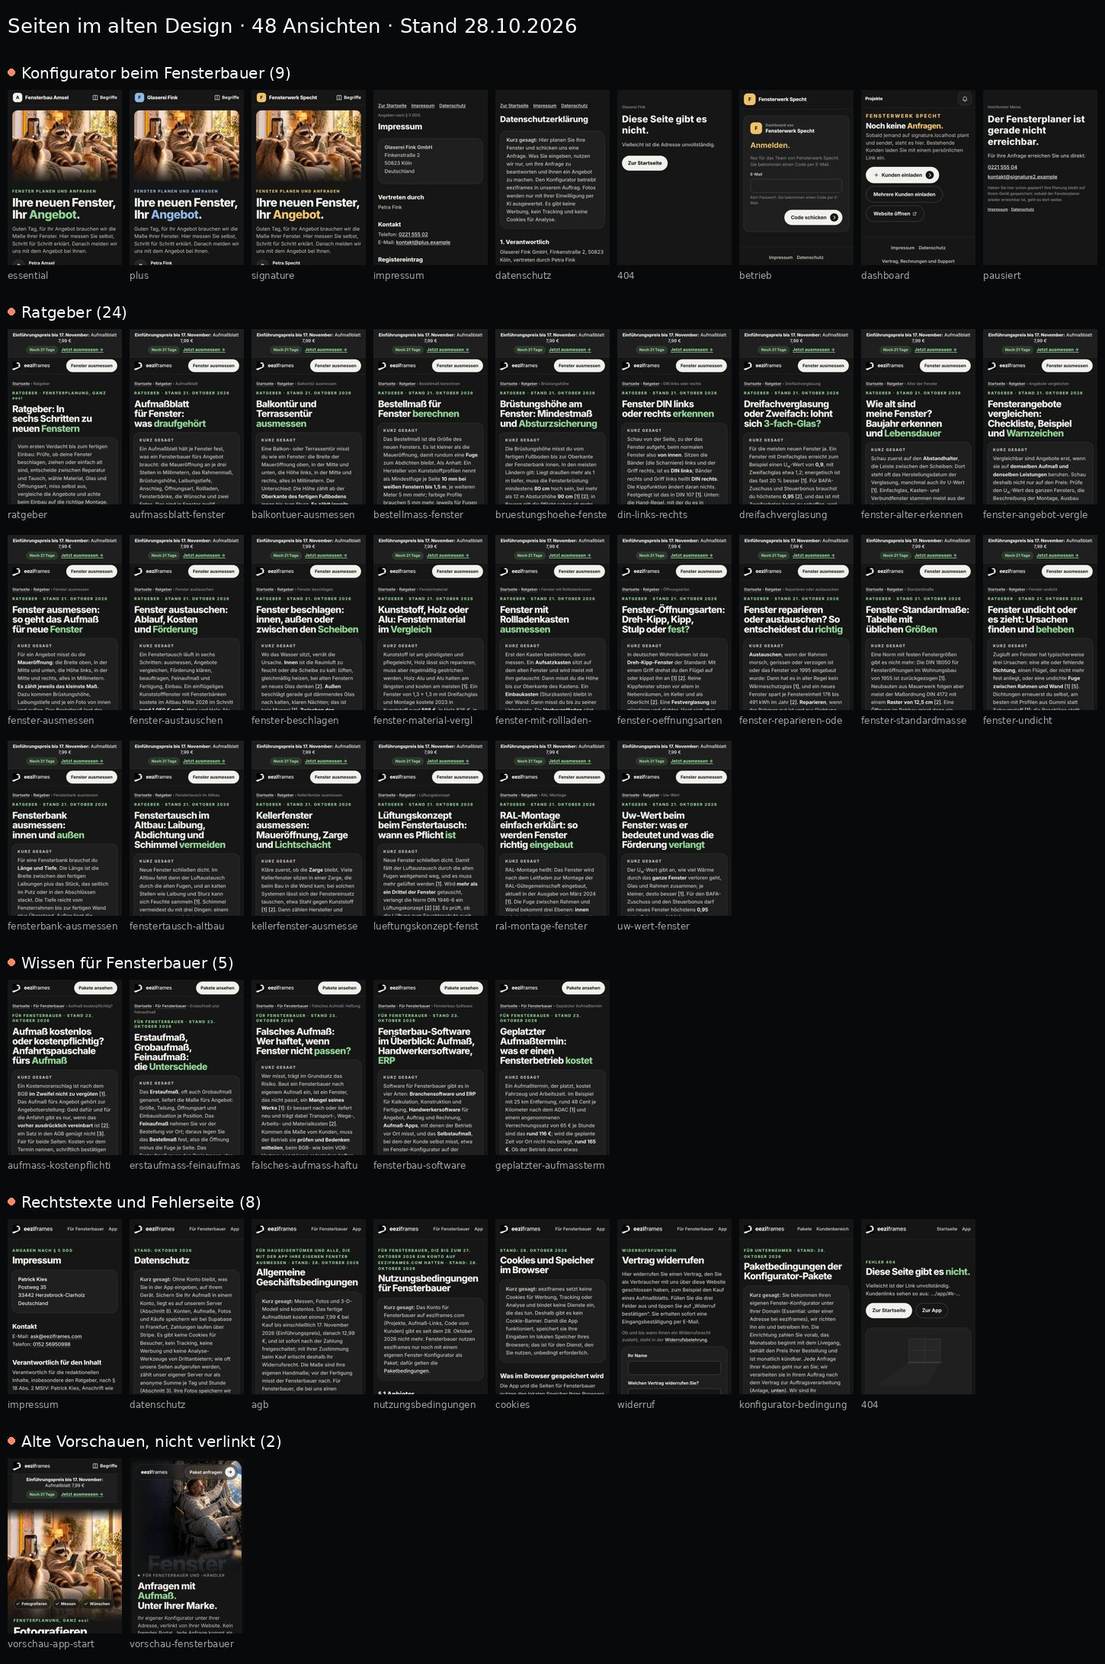
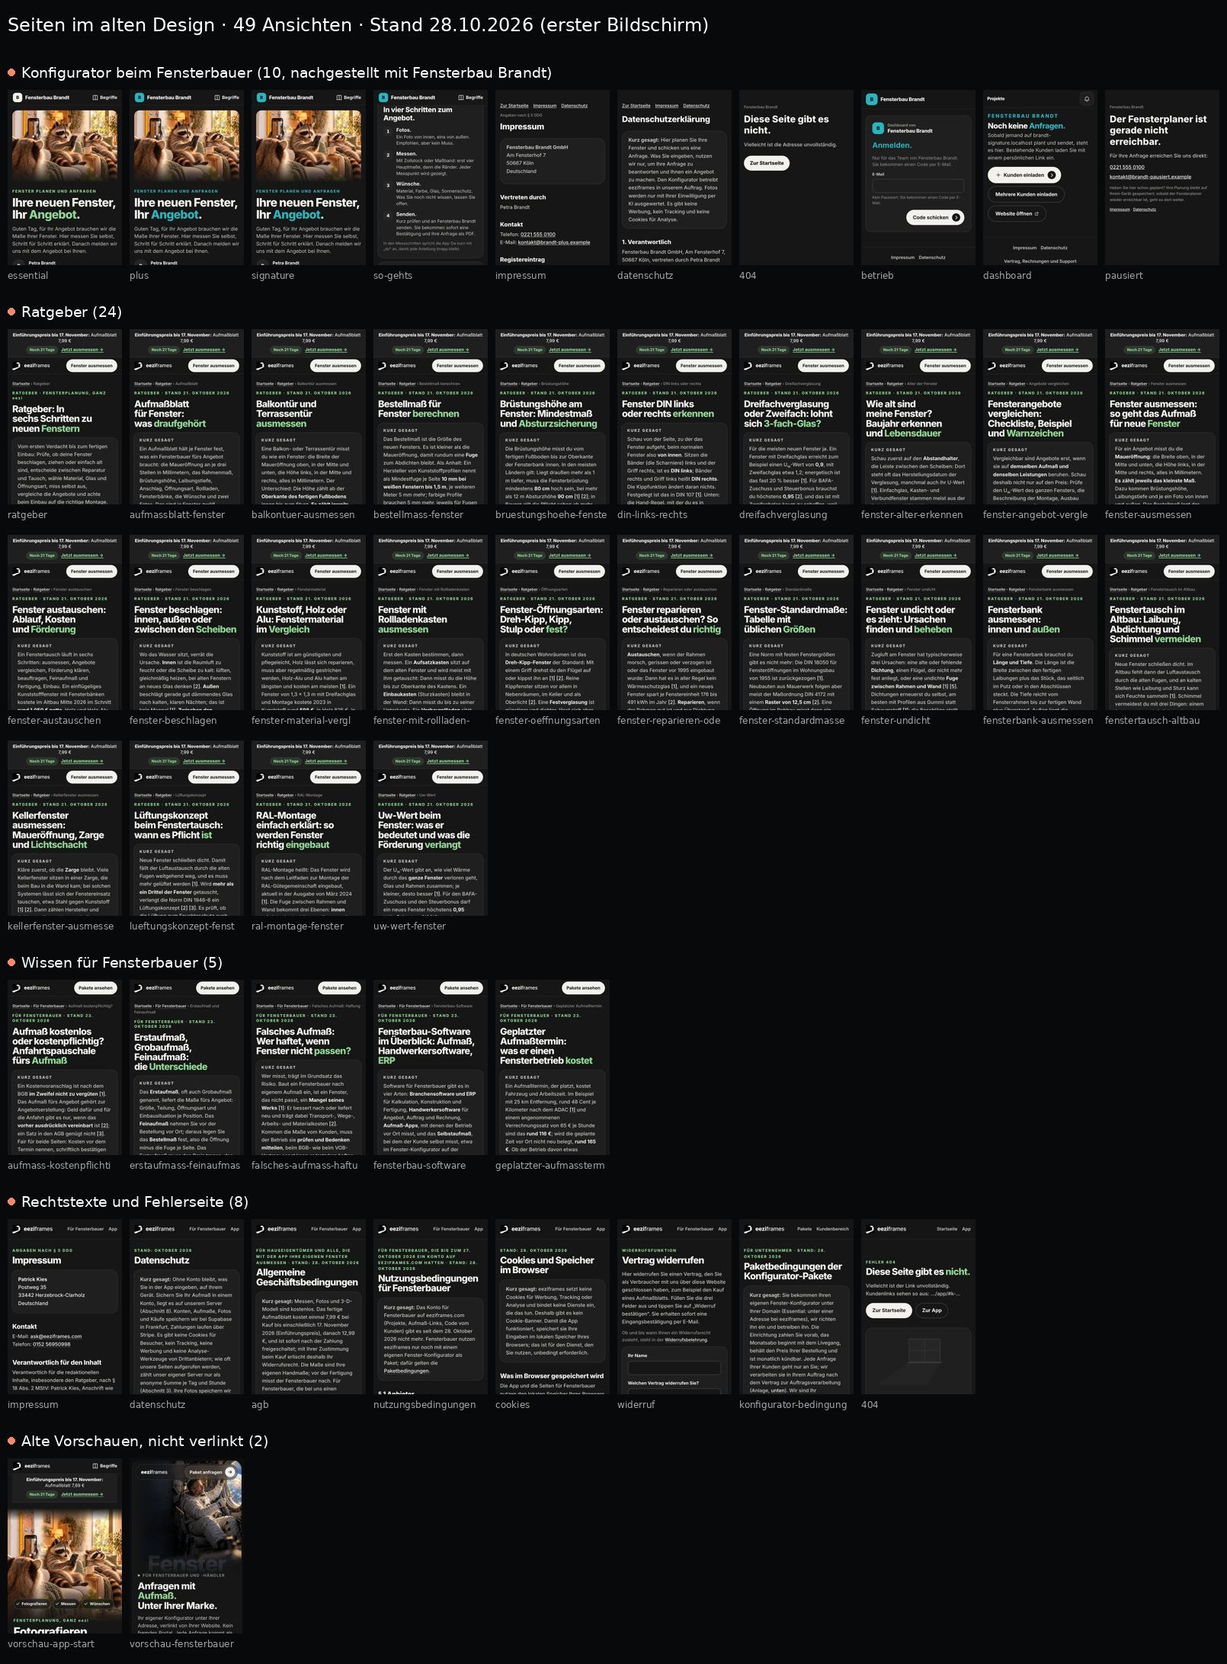
Bestandsaufnahme altes Design: jede Seite ganz, Ratgeber einzeln, Fensterbau Brandt
Korrektur des Inhabers umgesetzt: Jede der 49 alten Ansichten ist jetzt in
voller Länge am Telefon und am Schreibtisch fotografiert, alle 24 Ratgeber-
Seiten sind einzeln durchgesehen (13 alte Bausteine der Vorlage, Befund je
Seite, sieben leere Fotoplätze, Lücke im Inhaltsverzeichnis Uw-Wert). Die
Konfigurator-Ansichten zeigen statt der Testbetriebe der Prüfsuite den
Beispielbetrieb Fensterbau Brandt, lokal nachgestellt. Das Werkzeug misst
auch Ränder, Schatten und Pseudo-Elemente. Regel im Begleit-Skill, Abschnitt 4.

Claude-Session: https://claude.ai/code/session_018Bu3x1kx5KS35z3ECDHA1m

Changed region(s): [[0.0, 0.0, 0.9931, 0.9963]]

diff --git a/docs/profis/2026-10-28-altes-design.md b/docs/profis/2026-10-28-altes-design.md
@@ -6,88 +6,142 @@ Master-Anhängsel mit der Design-DNA gebaut sind; als Liste mit Bildschirmfoto. 
 
 Nur Bestandsaufnahme, an den Seiten ist nichts geändert.
 
-- Liste mit allen Bildern (Telefon und Schreibtisch, Großansicht je Seite): https://claude.ai/artifact/N9pZWsD5DQ9FnL54c7zvqt (privat)
+- Liste mit allen Bildern (erster Bildschirm und ganze Seite, Telefon und Schreibtisch): https://claude.ai/artifact/N9pZWsD5DQ9FnL54c7zvqt (privat)
 - Übersichtsbild: `docs/profis/bilder/2026-10-28-altes-design-uebersicht.jpg`
 - Werkzeug zum Wiederholen (auch als Gegenprobe nach dem Umbau): `docs/profis/werkzeuge/altes-design.mjs`
 
+## Korrektur des Inhabers (zweite Fassung, 28.10.2026)
+
+Die erste Fassung zeigte je Seite nur den ersten Bildschirm, und die Ratgeber-Seiten waren nicht einzeln durchgesehen
+(„die hast du ja noch gar nicht überprüft … vernünftig vorgehen“). Außerdem standen in den Bildern der Konfiguratoren die
+Testbetriebe der Prüfsuite (Fensterbau Amsel, Glaserei Fink, Fensterwerk Specht, Holzfenster Meise), ohne Erklärung.
+Daraus gilt jetzt:
+
+- Bei einer Bestandsaufnahme jede Seite in voller Länge fotografieren (vorher einmal durchscrollen, damit nachgeladene Bilder
+  stehen), am Telefon und am Schreibtisch, und jede Seite selbst ansehen, nicht nur messen.
+- Bilder für den Inhaber nie mit den Testbetrieben der Prüfsuite. Wo ein Betrieb gezeigt werden muss, den es online noch nicht
+  gibt: den Beispielbetrieb Fensterbau Brandt aus der Paket-Vorschau, lokal nachgestellt, und das in der Lieferung sagen.
+- In der Liste die Bilder sofort laden (kein `loading="lazy"`), damit sie in der App des Inhabers sicher erscheinen.
+
+Die Testbetriebe gibt es nur im lokalen Testserver (`scripts/dev-server.mjs`, Liste `STANDARD`) und in den Prüfungen 23 und
+24 (`scripts/pruefen-instanzen/`). Sie wurden nie online gestellt; der Testserver legt sie nur auf Abruf im Arbeitsspeicher an.
+
 ## Wie gemessen
 
-Stand von main (1bba0d8), lokaler Testserver mit Attrappen (`KI_ATTRAPPE=1 DATEN_ATTRAPPE=1 ZAHLUNG_ATTRAPPE=1 BETRIEBSKONTO=0`),
-damit auch die Konfiguratoren der Fensterbauer (`essential.localhost` usw.) laufen. Jede Seite am Telefon (390 × 844) und am
-Schreibtisch (1280 × 800) nach 2,6 s fotografiert und im DOM samt Schatten-DOM gemessen: Grund von body/html, Schrift der ersten
-Überschrift, sichtbare Elemente in Grün (Farbton 95–165°), Violett (232–265°) und Koralle.
+Stand von main (1bba0d8), lokaler Testserver mit Attrappen (`KI_ATTRAPPE=1 DATEN_ATTRAPPE=1 ZAHLUNG_ATTRAPPE=1 BETRIEBSKONTO=0`).
+Jede Seite am Telefon (390 × 844, doppelte Dichte) und am Schreibtisch (1280 × 800): erster Bildschirm nach 2,6 s, dann einmal
+durchgescrollt und in voller Länge. Im DOM samt Schatten-DOM: Grund von body/html, Schrift der ersten Überschrift, sichtbare
+Elemente in Grün (Farbton 95–165°), Violett (232–265°) und Koralle, auch Ränder, Schatten und `::before`/`::after`; dazu die
+Bausteine je Ratgeber-Seite. Die 24 Ratgeber-Seiten, die 5 Fachartikel und die Rechtstexte zusätzlich von Hand, Abschnitt für Abschnitt.
 
 Als „alt“ gilt eine Seite, wenn ihr Grund `#161616` ist, ihre Überschrift in Inter steht oder ein sichtbares Element Grün trägt.
 Neu heißt: Grund `#07090a`, Outfit, Violett und Koralle aus der Palette „Task-App dunkel“, kein Grün.
 
 ## Ergebnis
 
-48 Ansichten im alten Design, 12 schon in der Design-DNA.
+49 Ansichten im alten Design (37 Seiten auf eeziframes.com, 10 Ansichten im Konfigurator beim Fensterbauer, 2 alte Vorschauen),
+12 schon in der Design-DNA.
 
 | Bereich | Ansichten | Vorlage im Code |
 | --- | ---: | --- |
-| Konfigurator beim Fensterbauer | 9 | `web/assets/einladung.css`/`einladung.js` (Start), `functions/instanz/recht.js`, `functions/instanz/seiten.js`, `web/assets/portal.css` (Dashboard) |
+| Konfigurator beim Fensterbauer | 10 | `web/assets/einladung.css`/`einladung.js` (Start), `functions/instanz/recht.js`, `functions/instanz/seiten.js`, `web/assets/portal.css` (Dashboard) |
 | Ratgeber | 24 | `web/assets/gemeinsam.css` und `web/assets/ratgeber.css` |
 | Wissen für Fensterbauer | 5 | `web/assets/gemeinsam.css` und `web/assets/ratgeber.css` |
 | Rechtstexte und Fehlerseite | 8 | `web/assets/recht.css` |
 | Alte Vorschauen, nicht verlinkt | 2 | `web/vorschau/app-start-a1614b4e6b/`, `web/vorschau/fensterbauer-79b44cf9f8/` |
 
-Zwei Vorlagen tragen 37 Seiten auf eeziframes.com: `ratgeber.css` mit `gemeinsam.css` (29) und `recht.css` (8).
+Zwei Vorlagen tragen alle 37 Seiten auf eeziframes.com: `ratgeber.css` mit `gemeinsam.css` (29) und `recht.css` (8).
 
-### Konfigurator beim Fensterbauer (9)
+### Konfigurator beim Fensterbauer (10)
 
-Das sieht jeder Kunde eines Betriebs, der ein Paket gekauft hat. Alt sind: Startbildschirm (Essential mit Grün, Plus und
-Signature mit der Firmenfarbe an seiner Stelle, Grund, Schrift und Cream-Pille bleiben die alten), „So funktioniert es“,
-Impressum und Datenschutz des Betriebs, Fehlerseite, Dashboard von Signature (Anmeldung und angemeldet), Zustandsseiten
-(gerade nicht erreichbar, in Vorbereitung, beendet). Ab „Erstes Fenster ausmessen“ ist der Konfigurator schon neu.
-Die Paket-Vorschau auf eeziframes.com zeigt den Fensterbauern dagegen schon das neue Design: Nach dem Kauf sieht ihr Kunde
-einen anderen Startbildschirm als den aus der Vorschau.
+Das sieht jeder Kunde eines Betriebs, der ein Paket gekauft hat. Alt sind: Startbildschirm in allen drei Paketen (Essential mit
+Grün, Plus und Signature mit der Firmenfarbe an seiner Stelle; Grund, Schrift und Cream-Pille bleiben die alten), das Blatt
+„So funktioniert es“, Impressum und Datenschutz des Betriebs, Fehlerseite, Dashboard von Signature (Anmeldung und angemeldet)
+und die Zustandsseiten (gerade nicht erreichbar, in Vorbereitung, beendet; alle aus `fehlerSeite`). Ab „Erstes Fenster
+ausmessen“ ist der Konfigurator schon neu. Die Paket-Vorschau auf eeziframes.com zeigt den Fensterbauern dagegen schon das
+neue Design: Nach dem Kauf sieht ihr Kunde einen anderen Startbildschirm als in der Vorschau.
 
-### Seiten auf eeziframes.com (37)
+Nachgestellt im lokalen Testserver mit Fensterbau Brandt (Köln, Petra Brandt, Firmenfarbe Aquatürkis `#2ab4bd` aus seiner
+Palette), je Paket eine Instanz und eine pausierte; online gibt es noch keinen Konfigurator eines Fensterbauers.
 
-Spalte „Grün“: Zahl der sichtbaren grünen Elemente auf der ganzen Seite. Alle 37 stehen auf `#161616` in Inter. Ratgeber und
-Wissen tragen oben zusätzlich das Band „Einführungspreis“ mit grünem Etikett „Noch 21 Tage“ (`functions/seo.js`, `banner`).
-Die Fehlerseite erscheint auch unter `/betrieb/`, seit der Bereich für Fensterbauer abgeschaltet ist.
+### Ratgeber (24): Befund
 
-| Bereich | Seite | Adresse | Grün |
-| --- | --- | --- | ---: |
-| Ratgeber | Ratgeber neue Fenster: prüfen, auswählen, ausmessen | `/ratgeber/` | 12 |
-| Ratgeber | Aufmaßblatt Fenster als PDF: 12 Punkte, die draufgehören | `/ratgeber/aufmassblatt-fenster/` | 12 |
-| Ratgeber | Balkontür ausmessen: Terrassentür, Hebe-Schiebe- und PSK-Tür | `/ratgeber/balkontuer-ausmessen/` | 12 |
-| Ratgeber | Bestellmaß Fenster berechnen: Fuge je Seite, Tabelle, Beispiel | `/ratgeber/bestellmass-fenster/` | 12 |
-| Ratgeber | Brüstungshöhe Fenster: 80 oder 90 cm? Mindestmaß und Geländer | `/ratgeber/bruestungshoehe-fenster/` | 12 |
-| Ratgeber | Fenster DIN links oder rechts? Die Hand-Regel mit Bild | `/ratgeber/din-links-rechts/` | 12 |
-| Ratgeber | Dreifachverglasung oder Zweifach: Lohnt sich 3-fach-Glas? | `/ratgeber/dreifachverglasung/` | 13 |
-| Ratgeber | Wie alt sind meine Fenster? Baujahr in 3 Minuten erkennen | `/ratgeber/fenster-alter-erkennen/` | 13 |
-| Ratgeber | Fensterangebote vergleichen: Checkliste, Beispiel, Warnzeichen | `/ratgeber/fenster-angebot-vergleichen/` | 13 |
-| Ratgeber | Fenster ausmessen in 6 Schritten: Anleitung auch für Altbau | `/ratgeber/fenster-ausmessen/` | 13 |
-| Ratgeber | Fenster austauschen 2026: Kosten, Förderung und Ablauf | `/ratgeber/fenster-austauschen/` | 12 |
-| Ratgeber | Fenster beschlagen innen, außen oder zwischen den Scheiben? | `/ratgeber/fenster-beschlagen/` | 13 |
-| Ratgeber | Fenstermaterial im Vergleich: Kunststoff, Holz oder Alu? | `/ratgeber/fenster-material-vergleich/` | 13 |
-| Ratgeber | Fenster mit Rollladenkasten ausmessen: Aufsatz, Einbau, Vorbau | `/ratgeber/fenster-mit-rollladen-ausmessen/` | 13 |
-| Ratgeber | Fenster-Öffnungsarten: Dreh-Kipp, Kipp, Stulp oder fest? | `/ratgeber/fenster-oeffnungsarten/` | 13 |
-| Ratgeber | Fenster reparieren oder austauschen? Entscheidung in 3 Fragen | `/ratgeber/fenster-reparieren-oder-austauschen/` | 12 |
-| Ratgeber | Fenster-Standardmaße: Tabelle mit Rohbau- und Fenstermaßen | `/ratgeber/fenster-standardmasse/` | 12 |
-| Ratgeber | Fenster undicht? Zugluft in 1 Minute prüfen und beheben | `/ratgeber/fenster-undicht/` | 13 |
-| Ratgeber | Fensterbank ausmessen innen und außen: Überstand, Gefälle | `/ratgeber/fensterbank-ausmessen/` | 12 |
-| Ratgeber | Fenstertausch Altbau: so vermeidest du Schimmel an der Laibung | `/ratgeber/fenstertausch-altbau/` | 13 |
-| Ratgeber | Kellerfenster ausmessen: Maueröffnung, Zarge und Lichtschacht | `/ratgeber/kellerfenster-ausmessen/` | 12 |
-| Ratgeber | Lüftungskonzept beim Fenstertausch: Pflicht, Lösungen, Kosten | `/ratgeber/lueftungskonzept-fenstertausch/` | 13 |
-| Ratgeber | RAL-Montage Fenster: 3 Ebenen einfach erklärt, mit Prüfliste | `/ratgeber/ral-montage-fenster/` | 13 |
-| Ratgeber | Uw-Wert beim Fenster: Bedeutung, Berechnung, Förderung 2026 | `/ratgeber/uw-wert-fenster/` | 12 |
-| Wissen für Fensterbauer | Aufmaß kostenpflichtig? Anfahrtspauschale richtig vereinbaren | `/fuer-fensterbauer/aufmass-kostenpflichtig/` | 3 |
-| Wissen für Fensterbauer | Erstaufmaß und Feinaufmaß: Unterschied, Prüfliste, Toleranzen | `/fuer-fensterbauer/erstaufmass-feinaufmass/` | 4 |
-| Wissen für Fensterbauer | Falsches Aufmaß: Wer haftet, wenn Fenster nicht passen? | `/fuer-fensterbauer/falsches-aufmass-haftung/` | 4 |
-| Wissen für Fensterbauer | Fensterbau-Software 2026: ERP, Aufmaß-App oder Selbstaufmaß? | `/fuer-fensterbauer/fensterbau-software/` | 4 |
-| Wissen für Fensterbauer | Geplatzter Aufmaßtermin: Was er kostet und wie Sie vorbeugen | `/fuer-fensterbauer/geplatzter-aufmasstermin/` | 3 |
-| Rechtstexte und Fehlerseite | Impressum | `/impressum/` | 1 |
-| Rechtstexte und Fehlerseite | Datenschutz | `/datenschutz/` | 1 |
-| Rechtstexte und Fehlerseite | AGB | `/agb/` | 1 |
-| Rechtstexte und Fehlerseite | Konto für Fensterbauer eingestellt | `/nutzungsbedingungen/` | 1 |
-| Rechtstexte und Fehlerseite | Cookies | `/cookies/` | 1 |
-| Rechtstexte und Fehlerseite | Vertrag widerrufen | `/widerruf/` | 1 |
-| Rechtstexte und Fehlerseite | Paketbedingungen der Konfigurator-Pakete | `/konfigurator-bedingungen/` | 1 |
-| Rechtstexte und Fehlerseite | Seite nicht gefunden | `/gibt-es-nicht/` | 2 |
+Alle 24 Seiten bauen auf derselben Vorlage auf. Was auf jeder Seite alt ist:
+
+1. Band „Einführungspreis bis 17. November“ ganz oben, mit grünem Etikett „Noch 21 Tage“ und grünem Link (nur Ratgeber, `functions/seo.js`, `banner`).
+2. Kopf mit Logo und Cream-Pille „Fenster ausmessen“.
+3. Kicker „Ratgeber · Stand 21. Oktober 2026“ in Grün, Versalien.
+4. Überschrift in Inter fett, ein Wort grün.
+5. Karte „Kurz gesagt“ auf `#1f1f1f` mit Rand.
+6. Zwei Knöpfe: Cream-Pille mit schwarzem Pfeilkreis und Umriss-Pille; im Text je Seite noch einmal.
+7. „Auf dieser Seite“: Inhaltsverzeichnis in zwei Spalten, letzter Punkt „Dein Weg: Schritt n von 6“ in Grün.
+8. Zeichnung auf weißer Karte in den alten Zeichnungsfarben Orange-Rot und Blau (das Aufmaßblatt zeichnet seit dem 27.10. in Anthrazit und Violett).
+9. Hinweiskarten: „Gut zu wissen“ mit grünem Balken links, „Häufiger Fehler“ mit orangem Balken links.
+10. Tabellen und Checklisten als Karten mit Versal-Etiketten und Kästchen.
+11. Häufige Fragen zum Aufklappen, mit grünem Plus.
+12. „Dein Weg zu neuen Fenstern“: sechs Kacheln mit grünem „Schritt n“, die aktuelle als Cream-Fläche „Du bist hier“, darunter „Nächster Schritt“ mit Bild und grünem Pfeil.
+13. Weiterlesen, Quellen und Fußzeile; in der Fußzeile die aktuelle Seite grün.
+
+Weitere Funde:
+
+- **Fotos fehlen.** Die Ratgeber-Übersicht hat sieben Fotoplätze (`ratgeber.webp`, `weg-*.webp`), alle sind nur der leere
+  Platzhalter (3.494 Byte, ein gezeichnetes Fenster). Derselbe Platzhalter steht auf 21 von 23 Artikeln in „Nächster Schritt“;
+  Lüftungskonzept und RAL-Montage (Schritt 6) zeigen stattdessen das Waschbär-Foto der App. Die geplanten Tierfotos aus
+  docs/BILDER.md gehören zur alten Bildsprache.
+- **Kleiner Fehler im Bestand.** Uw-Wert: Im Inhaltsverzeichnis steht „U w -Wert“ mit Lücke, weil die Tiefstellung
+  (`<sub>`) im Link aus der Zeile fällt. Beim Umbau mit beheben.
+
+Je Seite (Länge am Telefon in CSS-Pixeln, ein Bildschirm sind 844; „× Grün“ zählt sichtbare grüne Elemente):
+
+| Seite | Adresse | Länge | Abschn. | Fragen | Tabellen | Hinweise | Quellen | Schritt | Zeichnung | Bild „Nächster Schritt“ | × Grün | Besonderheit |
+| --- | --- | ---: | ---: | ---: | ---: | ---: | ---: | ---: | --- | --- | ---: | --- |
+| Ratgeber neue Fenster: prüfen. auswählen. ausmessen | `/ratgeber/` | 9.157 | 8 | – | – | – | – | – | – | 7 leere Platzhalter | 12 | alle sieben Fotoplätze leer |
+| Aufmaßblatt Fenster als PDF: 12 Punkte. die draufgehören | `/ratgeber/aufmassblatt-fenster/` | 9.559 | 9 | 5 | 1 | 1 | 3 | 4 | aufmassblatt.svg | leerer Platzhalter | 18 |  |
+| Balkontür ausmessen: Terrassentür. Hebe-Schiebe- und PSK-Tür | `/ratgeber/balkontuer-ausmessen/` | 9.727 | 10 | 5 | 2 | 1 | 5 | 4 | balkontuer.svg | leerer Platzhalter | 18 |  |
+| Bestellmaß Fenster berechnen: Fuge je Seite. Tabelle. Beispiel | `/ratgeber/bestellmass-fenster/` | 7.529 | 8 | 4 | 2 | 1 | 4 | 4 | bestellmass.svg | leerer Platzhalter | 17 |  |
+| Brüstungshöhe Fenster: 80 oder 90 cm? Mindestmaß und Geländer | `/ratgeber/bruestungshoehe-fenster/` | 7.815 | 9 | 4 | 1 | 1 | 3 | 4 | bruestung.svg | leerer Platzhalter | 17 |  |
+| Fenster DIN links oder rechts? Die Hand-Regel mit Bild | `/ratgeber/din-links-rechts/` | 6.666 | 9 | 4 | 1 | 1 | 2 | 3 | din-links-rechts.svg | leerer Platzhalter | 17 |  |
+| Dreifachverglasung oder Zweifach: Lohnt sich 3-fach-Glas? | `/ratgeber/dreifachverglasung/` | 9.559 | 9 | 5 | 1 | 1 | 9 | 3 | verglasung.svg | leerer Platzhalter | 20 |  |
+| Wie alt sind meine Fenster? Baujahr in 3 Minuten erkennen | `/ratgeber/fenster-alter-erkennen/` | 10.306 | 9 | 5 | 2 | 1 | 6 | 1 | fenster-alter.svg | leerer Platzhalter | 20 |  |
+| Fensterangebote vergleichen: Checkliste. Beispiel. Warnzeichen | `/ratgeber/fenster-angebot-vergleichen/` | 11.765 | 11 | 5 | 1 | 2 | 11 | 5 | angebote-vergleichen.svg | leerer Platzhalter | 20 |  |
+| Fenster ausmessen in 6 Schritten: Anleitung auch für Altbau | `/ratgeber/fenster-ausmessen/` | 12.046 | 12 | 8 | 2 | 2 | 6 | 4 | messpunkte.svg | leerer Platzhalter | 23 |  |
+| Fenster austauschen 2026: Kosten. Förderung und Ablauf | `/ratgeber/fenster-austauschen/` | 12.566 | 10 | 7 | 1 | 1 | 15 | 2 | fenster-austauschen.svg | leerer Platzhalter | 20 |  |
+| Fenster beschlagen innen. außen oder zwischen den Scheiben? | `/ratgeber/fenster-beschlagen/` | 10.479 | 11 | 5 | 1 | 2 | 6 | 1 | fenster-beschlagen.svg | leerer Platzhalter | 20 |  |
+| Fenstermaterial im Vergleich: Kunststoff. Holz oder Alu? | `/ratgeber/fenster-material-vergleich/` | 9.637 | 11 | 5 | 1 | 1 | 7 | 3 | fenstermaterial.svg | leerer Platzhalter | 20 |  |
+| Fenster mit Rollladenkasten ausmessen: Aufsatz. Einbau. Vorbau | `/ratgeber/fenster-mit-rollladen-ausmessen/` | 8.223 | 10 | 4 | 1 | 2 | 4 | 4 | rollladen.svg | leerer Platzhalter | 19 |  |
+| Fenster-Öffnungsarten: Dreh-Kipp. Kipp. Stulp oder fest? | `/ratgeber/fenster-oeffnungsarten/` | 10.990 | 10 | 6 | 2 | 2 | 6 | 3 | fenster-oeffnungsarten.svg | leerer Platzhalter | 21 |  |
+| Fenster reparieren oder austauschen? Entscheidung in 3 Fragen | `/ratgeber/fenster-reparieren-oder-austauschen/` | 10.773 | 9 | 5 | 3 | 1 | 11 | 2 | fenster-entscheidung.svg | leerer Platzhalter | 18 |  |
+| Fenster-Standardmaße: Tabelle mit Rohbau- und Fenstermaßen | `/ratgeber/fenster-standardmasse/` | 8.748 | 10 | 5 | 1 | 1 | 7 | 3 | fenster-standardmasse.svg | leerer Platzhalter | 18 |  |
+| Fenster undicht? Zugluft in 1 Minute prüfen und beheben | `/ratgeber/fenster-undicht/` | 9.880 | 9 | 5 | 1 | 2 | 6 | 1 | fenster-undicht.svg | leerer Platzhalter | 20 |  |
+| Fensterbank ausmessen innen und außen: Überstand. Gefälle | `/ratgeber/fensterbank-ausmessen/` | 8.851 | 10 | 5 | 1 | 1 | 5 | 4 | fensterbank.svg | leerer Platzhalter | 18 |  |
+| Fenstertausch Altbau: so vermeidest du Schimmel an der Laibung | `/ratgeber/fenstertausch-altbau/` | 11.383 | 10 | 5 | 1 | 1 | 9 | 2 | fenstertausch-altbau.svg | leerer Platzhalter | 20 |  |
+| Kellerfenster ausmessen: Maueröffnung. Zarge und Lichtschacht | `/ratgeber/kellerfenster-ausmessen/` | 9.560 | 9 | 5 | 2 | 1 | 6 | 4 | kellerfenster.svg | leerer Platzhalter | 18 |  |
+| Lüftungskonzept beim Fenstertausch: Pflicht. Lösungen. Kosten | `/ratgeber/lueftungskonzept-fenstertausch/` | 9.944 | 9 | 5 | 3 | 1 | 7 | 6 | lueftungskonzept.svg | Waschbär-Foto | 20 | letzter Schritt mit Waschbär-Foto |
+| RAL-Montage Fenster: 3 Ebenen einfach erklärt. mit Prüfliste | `/ratgeber/ral-montage-fenster/` | 11.086 | 11 | 5 | 1 | 1 | 9 | 6 | ral-montage.svg | Waschbär-Foto | 20 | letzter Schritt mit Waschbär-Foto |
+| Uw-Wert beim Fenster: Bedeutung. Berechnung. Förderung 2026 | `/ratgeber/uw-wert-fenster/` | 11.673 | 10 | 5 | 3 | 1 | 10 | 3 | uw-wert.svg | leerer Platzhalter | 18 | Inhaltsverzeichnis: „U w -Wert“ mit Lücke |
+
+### Wissen für Fensterbauer (5) und Rechtstexte mit Fehlerseite (8)
+
+Die fünf Fachartikel nutzen dieselbe Vorlage wie der Ratgeber, mit „Pakete ansehen“ als Cream-Pille, Zeichnung in Orange-Rot
+und Blau, „Gut zu wissen“ mit grünem Balken und Fragen mit grünem Plus; das Band „Einführungspreis“ und „Dein Weg“ fehlen hier.
+Die Rechtstexte sind reine Textseiten: Grün nur im Kicker (Fehlerseite: auch im Wort „nicht“), Grund `#161616`, Inter, Karten
+auf `#1f1f1f`, Cream-Knöpfe. Die Fehlerseite erscheint auch unter `/betrieb/`, seit der Bereich für Fensterbauer abgeschaltet ist.
+
+| Seite | Adresse | Länge | × Grün |
+| --- | --- | ---: | ---: |
+| Aufmaß kostenpflichtig? Anfahrtspauschale richtig vereinbaren | `/fuer-fensterbauer/aufmass-kostenpflichtig/` | 8.529 | 8 |
+| Erstaufmaß und Feinaufmaß: Unterschied. Prüfliste. Toleranzen | `/fuer-fensterbauer/erstaufmass-feinaufmass/` | 9.760 | 10 |
+| Falsches Aufmaß: Wer haftet. wenn Fenster nicht passen? | `/fuer-fensterbauer/falsches-aufmass-haftung/` | 9.855 | 10 |
+| Fensterbau-Software 2026: ERP. Aufmaß-App oder Selbstaufmaß? | `/fuer-fensterbauer/fensterbau-software/` | 9.177 | 10 |
+| Geplatzter Aufmaßtermin: Was er kostet und wie Sie vorbeugen | `/fuer-fensterbauer/geplatzter-aufmasstermin/` | 9.059 | 8 |
+| Impressum | `/impressum/` | 1.454 | 1 |
+| Datenschutz | `/datenschutz/` | 20.423 | 1 |
+| AGB | `/agb/` | 11.877 | 1 |
+| Konto für Fensterbauer eingestellt | `/nutzungsbedingungen/` | 1.989 | 1 |
+| Cookies | `/cookies/` | 5.661 | 1 |
+| Vertrag widerrufen | `/widerruf/` | 1.563 | 1 |
+| Paketbedingungen der Konfigurator-Pakete | `/konfigurator-bedingungen/` | 38.119 | 1 |
+| Seite nicht gefunden | `/gibt-es-nicht/` | 844 | 2 |
 
 ### Alte Vorschauen (2)
 

diff --git a/.claude/skills/design-dna-eeziframes/SKILL.md b/.claude/skills/design-dna-eeziframes/SKILL.md
@@ -212,6 +212,13 @@ Diese Werte haben die Tiefe gebracht, die der Inhaber an seinen Vorlagen schätz
   auf Wunsch mitgestalten, erklärt „Fenster planen“ auf der Seite und bietet „Fenster konfigurieren“ gleich im Kästchen (Inhaber, später
   am selben Tag). Vorschlag für seine DNA (Abschnitt 9):
   „Ein Ablauf ist erst fertig, wenn jeder erreichbare Bildschirm darin im neuen Look steht.“
+- Bestandsaufnahmen gründlich (Inhaber, 28.10.2026: „diese ganzen Ratgeber Seiten die hast du ja noch gar nicht überprüft … vernünftig
+  vorgehen“; „Wo kommen denn diese ganzen komischen Firmen her“): Jede Seite in voller Länge fotografieren (vorher durchscrollen), am
+  Telefon und am Schreibtisch, und selbst ansehen, nicht nur messen; der erste Bildschirm allein reicht nie. Bilder für den Inhaber nie
+  mit den Testbetrieben der Prüfsuite (Amsel, Fink, Specht, Meise); wo ein Betrieb gezeigt werden muss, den es online noch nicht gibt,
+  Fensterbau Brandt aus der Paket-Vorschau, lokal nachgestellt, und das in der Lieferung sagen. Bilder in einer Liste laden sofort
+  (kein `loading="lazy"`). Werkzeug: `docs/profis/werkzeuge/altes-design.mjs`. Vorschlag für seine DNA (Abschnitt 7):
+  „Geprüft heißt: jede Seite ganz gesehen, mit Beispielen, die der Inhaber kennt.“
 - Jede weitere Korrektur des Inhabers wird hier eingetragen und als Vorschlag für seine DNA genannt (Abschnitt 7 der DNA).
 
 ## 5. Rezept je Seite (so entstand die Startseite, etwa drei Stunden)
